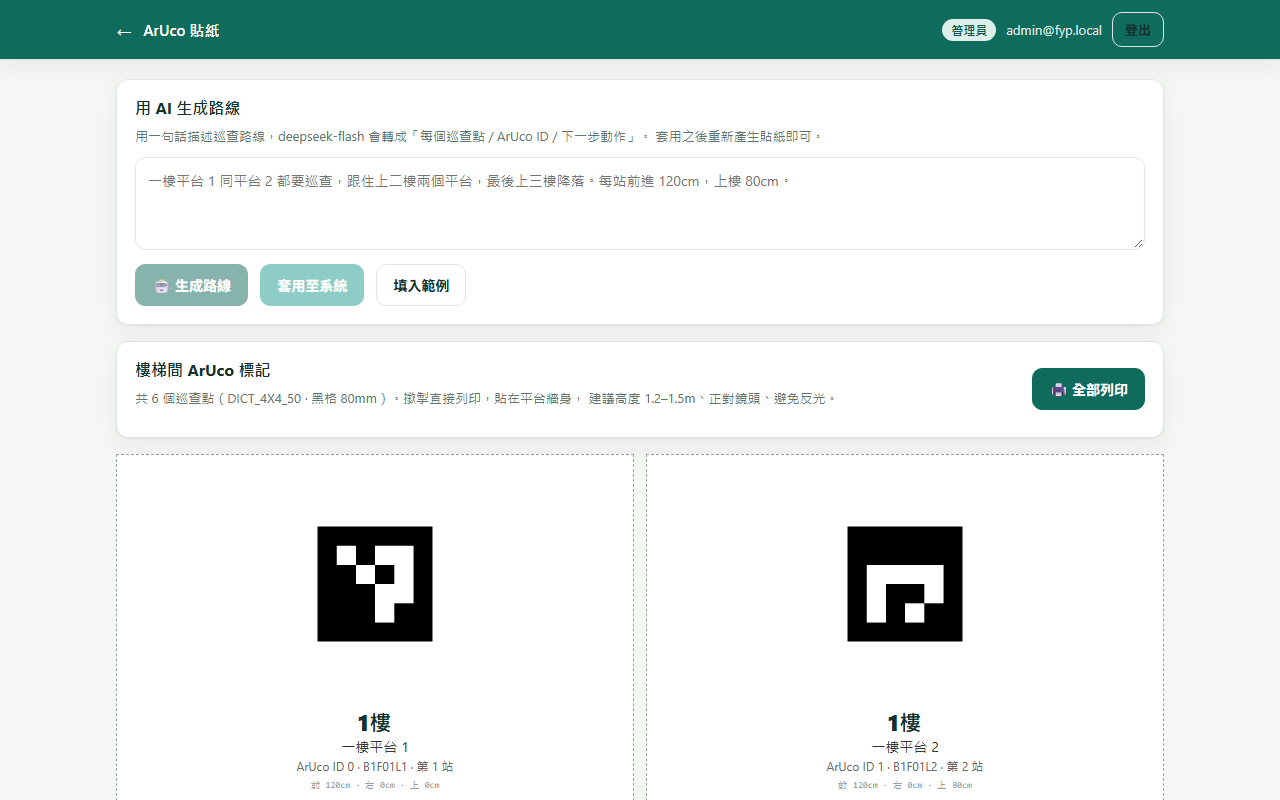
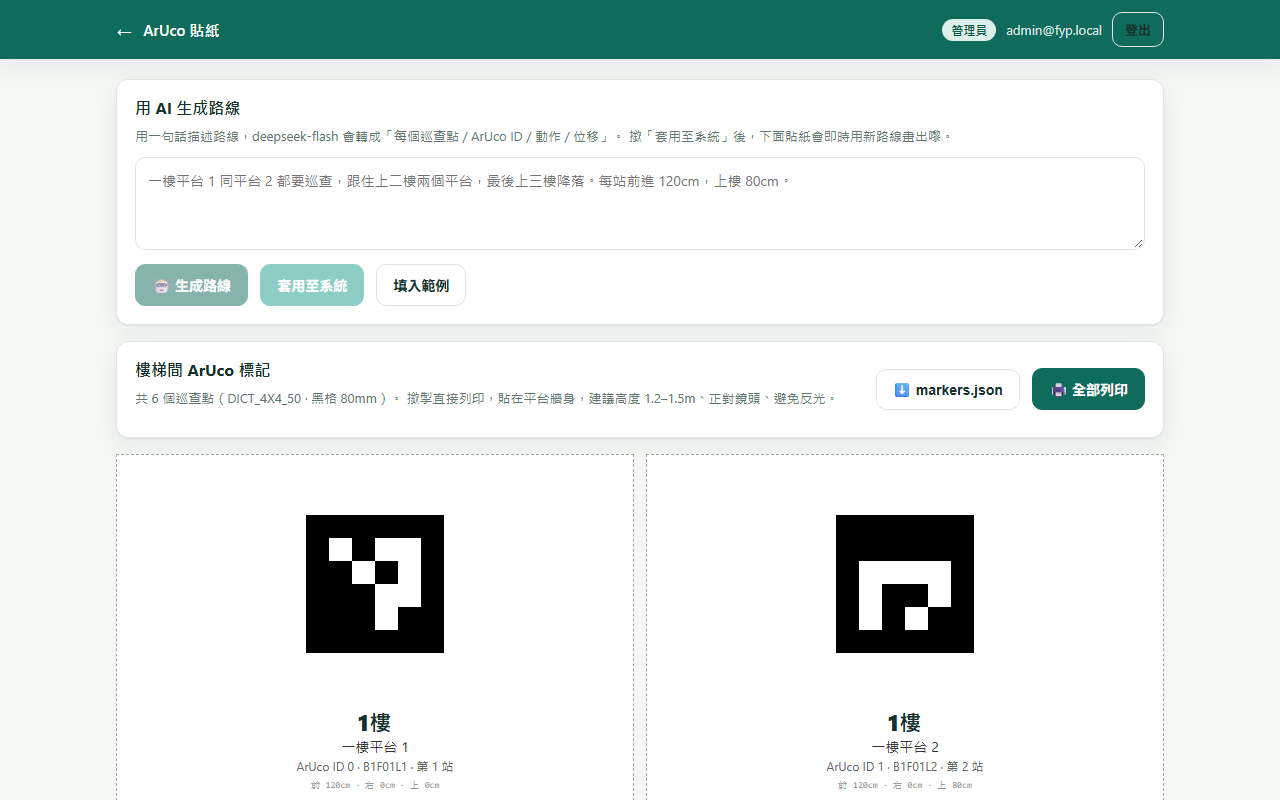
Render ArUco stickers in the browser from Firestore zones (no service account)
- export_dict.py: OpenCV DICT_4X4_50 bitmaps -> public/markers/dict-4x4-50.json
- /admin/markers now subscribes to Firestore zones and draws markers as SVG,
  so AI route changes update stickers immediately
- download markers.json button syncs markerId/zone/move to the drone tool
- verified: 6 SVG markers re-detected by OpenCV as IDs 0-5
- gen_markers.py kept for PNG/PDF printing and --from-firestore

diff --git a/src/pages/Markers.jsx b/src/pages/Markers.jsx
@@ -1,25 +1,75 @@
-import { useEffect, useState } from 'react';
+import { useEffect, useMemo, useState } from 'react';
+import { collection, onSnapshot, orderBy, query } from 'firebase/firestore';
 import { getFunctions, httpsCallable } from 'firebase/functions';
 import AppBar from '../components/AppBar';
-import { app } from '../firebase';
+import { app, db } from '../firebase';
 
 /**
  * ArUco 貼紙頁 + DeepSeek 路線生成。
  *
- * 流程：
- *   1. 管理員用自然語言描述路線（例：「一樓兩個平台，然後上二樓，最後三樓降落」）
- *   2. Cloud Function 呼叫 deepseek-flash，回傳嚴格 JSON（zone / markerId / action / move）
- *   3. 「套用」→ 寫入 Firestore `zones`
- *   4. 落本機執行 `python tools/drone/gen_markers.py --from-firestore` 重新產生貼紙
+ * 貼紙由網頁即時畫（SVG），位元圖來自 `public/markers/dict-4x4-50.json`
+ * （由 OpenCV 匯出，所以同無人機偵測的字典完全一致）。
+ * 好處：AI 生成路線 → 套用 → 貼紙即刻更新，唔需要 service account、唔需要跑 Python。
  *
- * 為何唔由瀏覽器直接 call DeepSeek：API key 會 expose；而且 DeepSeek 唔支援 browser CORS。
- * Key 只存在 Google Secret Manager，由 Cloud Function 代呼叫。
+ * 無人機需要的 `markers.json`（markerId → zone + move）可以一鍵下載。
  */
 const EXAMPLE = '一樓平台 1 同平台 2 都要巡查，跟住上二樓兩個平台，最後上三樓降落。每站前進 120cm，上樓 80cm。';
+const QUIET_ZONE = 2;
+const MARKER_SIZE_M = 0.08;
+
+function useDict() {
+  const [dict, setDict] = useState(null);
+  useEffect(() => {
+    fetch('/markers/dict-4x4-50.json')
+      .then((res) => res.json())
+      .then(setDict)
+      .catch(() => setDict(null));
+  }, []);
+  return dict;
+}
+
+function MarkerSvg({ dict, markerId, label }) {
+  const code = dict?.codes?.[markerId];
+  if (!code) return <div className="qr-placeholder" />;
+
+  const modules = dict.modules; // 6
+  const total = modules + QUIET_ZONE * 2; // 10
+  const cells = [];
+  for (let row = 0; row < modules; row += 1) {
+    for (let col = 0; col < modules; col += 1) {
+      if (code[row * modules + col] === '1') {
+        cells.push(
+          <rect
+            key={`${row}-${col}`}
+            x={col + QUIET_ZONE}
+            y={row + QUIET_ZONE}
+            width={1}
+            height={1}
+            fill="#000"
+          />,
+        );
+      }
+    }
+  }
+
+  return (
+    <svg
+      className="aruco-svg"
+      viewBox={`0 0 ${total} ${total}`}
+      role="img"
+      aria-label={`${label} ArUco ID ${markerId}`}
+      shapeRendering="crispEdges"
+    >
+      <rect width={total} height={total} fill="#fff" />
+      {cells}
+    </svg>
+  );
+}
 
 export default function Markers() {
-  const [data, setData] = useState(null);
-  const [error, setError] = useState('');
+  const dict = useDict();
+  const [zones, setZones] = useState([]);
+  const [zonesError, setZonesError] = useState('');
 
   const [prompt, setPrompt] = useState('');
   const [generating, setGenerating] = useState(false);
@@ -28,17 +78,20 @@ export default function Markers() {
   const [aiError, setAiError] = useState('');
   const [notice, setNotice] = useState('');
 
+  // 直接監聽 Firestore zones：AI 套用後貼紙即刻更新
   useEffect(() => {
-    fetch('/markers/markers.json')
-      .then((res) => {
-        if (!res.ok) throw new Error('HTTP ' + res.status);
-        return res.json();
-      })
-      .then(setData)
-      .catch((err) => setError('讀取 marker 資料失敗：' + err.message));
+    const q = query(collection(db, 'zones'), orderBy('seq', 'asc'));
+    return onSnapshot(
+      q,
+      (snap) => {
+        setZones(snap.docs.map((d) => ({ zoneId: d.id, ...d.data() })));
+        setZonesError('');
+      },
+      (err) => setZonesError('讀取巡查點失敗：' + err.message),
+    );
   }, []);
 
-  const zones = data?.zones ?? [];
+  const sorted = useMemo(() => [...zones].sort((a, b) => (a.seq ?? 0) - (b.seq ?? 0)), [zones]);
 
   async function generate(apply = false) {
     setAiError('');
@@ -49,11 +102,7 @@ export default function Markers() {
       const call = httpsCallable(functions, 'generateRoute', { timeout: 120000 });
       const result = await call({ prompt: prompt.trim(), apply });
       setRoute(result.data);
-      if (apply) {
-        setNotice(
-          `已套用 ${result.data.steps.length} 個巡查點。落本機執行：python tools/drone/gen_markers.py --from-firestore`,
-        );
-      }
+      if (apply) setNotice(`已套用 ${result.data.steps.length} 個巡查點，下面貼紙已即時更新。`);
     } catch (err) {
       console.error(err);
       setAiError(err.message || 'AI 生成失敗');
@@ -61,6 +110,31 @@ export default function Markers() {
       setGenerating(false);
       setApplying(false);
     }
+  }
+
+  function downloadMarkersJson() {
+    const payload = {
+      dictionary: 'DICT_4X4_50',
+      markerSizeM: MARKER_SIZE_M,
+      quietZoneModules: QUIET_ZONE,
+      zones: sorted.map((z) => ({
+        zoneId: z.zoneId,
+        markerId: z.markerId,
+        seq: z.seq,
+        floor: z.floor,
+        label: z.label,
+        action: z.action,
+        nextZone: z.nextZone ?? '',
+        move: z.move ?? { forward: 0, right: 0, up: 0 },
+      })),
+    };
+    const blob = new Blob([JSON.stringify(payload, null, 2)], { type: 'application/json' });
+    const url = URL.createObjectURL(blob);
+    const link = document.createElement('a');
+    link.href = url;
+    link.download = 'markers.json';
+    link.click();
+    URL.revokeObjectURL(url);
   }
 
   return (
@@ -73,8 +147,8 @@ export default function Markers() {
         <div className="card no-print">
           <h3>用 AI 生成路線</h3>
           <p className="muted small">
-            用一句話描述巡查路線，deepseek-flash 會轉成「每個巡查點 / ArUco ID / 下一步動作」。
-            套用之後重新產生貼紙即可。
+            用一句話描述路線，deepseek-flash 會轉成「每個巡查點 / ArUco ID / 動作 / 位移」。
+            撳「套用至系統」後，下面貼紙會即時用新路線畫出嚟。
           </p>
           <textarea
             className="ai-input"
@@ -158,23 +232,27 @@ export default function Markers() {
             <div>
               <h3>樓梯間 ArUco 標記</h3>
               <p className="muted small">
-                共 {zones.length} 個巡查點（{data?.dictionary ?? 'DICT_4X4_50'} · 黑格{' '}
-                {data ? Math.round(data.markerSizeM * 1000) : 80}mm）。撳掣直接列印，貼在平台牆身，
-                建議高度 1.2–1.5m、正對鏡頭、避免反光。
+                共 {sorted.length} 個巡查點（DICT_4X4_50 · 黑格 {MARKER_SIZE_M * 1000}mm）。
+                撳掣直接列印，貼在平台牆身，建議高度 1.2–1.5m、正對鏡頭、避免反光。
               </p>
             </div>
-            <button type="button" className="btn btn-primary" onClick={() => window.print()} disabled={!zones.length}>
-              🖨 全部列印
-            </button>
+            <div className="row gap wrap">
+              <button type="button" className="btn btn-ghost" onClick={downloadMarkersJson} disabled={!sorted.length}>
+                ⬇ markers.json
+              </button>
+              <button type="button" className="btn btn-primary" onClick={() => window.print()} disabled={!sorted.length}>
+                🖨 全部列印
+              </button>
+            </div>
           </div>
-          {error ? <p className="alert alert-error">{error}</p> : null}
-          {!zones.length && !error ? <p className="muted">載入中…</p> : null}
+          {zonesError ? <p className="alert alert-error">{zonesError}</p> : null}
+          {!sorted.length && !zonesError ? <p className="muted">載入中…</p> : null}
         </div>
 
         <div className="qr-sheet">
-          {zones.map((z) => (
+          {sorted.map((z) => (
             <div key={z.zoneId} className="qr-cell">
-              <img src={`/markers/${z.zoneId}.png`} alt={`${z.floor} ${z.label} ArUco`} />
+              <MarkerSvg dict={dict} markerId={z.markerId} label={z.label || z.zoneId} />
               <div className="qr-floor">{z.floor}</div>
               <div className="qr-label">{z.label}</div>
               <div className="qr-id">
@@ -190,8 +268,8 @@ export default function Markers() {
         </div>
 
         <p className="muted small no-print">
-          改路線之後重新產生：`python tools/drone/gen_markers.py --from-firestore`。貼紙尺寸必須同
-          markers.json 的 <code>markerSizeM</code> 一致，否則距離估錯。
+          把下載到的 <code>markers.json</code> 放入 <code>tools/drone/</code>，無人機就會用同一份路線。
+          貼紙尺寸必須同 <code>markerSizeM</code>（{MARKER_SIZE_M}m）一致，否則距離估錯。
         </p>
       </main>
     </>

diff --git a/src/styles.css b/src/styles.css
@@ -237,3 +237,10 @@ code { background: #eef3f1; padding: 1px 5px; border-radius: 5px; font-size: 0.9
   background: #fff;
 }
 .ai-input:focus { outline: 2px solid rgba(15, 107, 92, 0.35); border-color: var(--primary); }
+
+/* ArUco SVG */
+.aruco-svg { width: 100%; max-width: 230px; height: auto; display: block; margin: 0 auto; background: #fff; }
+
+@media print {
+  .aruco-svg { width: 120mm; max-width: none; height: 120mm; }
+}

diff --git a/tools/drone/export_dict.py b/tools/drone/export_dict.py
@@ -1,0 +1,56 @@
+"""匯出 ArUco DICT_4X4_50 位元圖，供網頁用 SVG 即時畫 marker。
+
+為何要匯出：網頁（JS）冇 OpenCV，但只要有位元圖就可以用 SVG 畫出同一個 marker。
+呢個 JSON 由 OpenCV 產生，所以同無人機偵測用的字典 100% 一致。
+
+輸出：public/markers/dict-4x4-50.json
+  { "dictionary": "DICT_4X4_50", "modules": 6, "codes": ["010110...", ...] }
+  每個 code 係 6x6（1 模組黑框 + 4x4 資料）的位元字串，'1' = 黑。
+"""
+
+import json
+import sys
+from pathlib import Path
+
+import cv2
+
+if hasattr(sys.stdout, "reconfigure"):
+    sys.stdout.reconfigure(encoding="utf-8")
+
+ROOT = Path(__file__).resolve().parents[2]
+OUT = ROOT / "public" / "markers" / "dict-4x4-50.json"
+
+MODULES = 6
+PX_PER_MODULE = 20
+SIDE_PX = MODULES * PX_PER_MODULE
+
+
+def main() -> int:
+    dictionary = cv2.aruco.getPredefinedDictionary(cv2.aruco.DICT_4X4_50)
+    codes = []
+
+    for marker_id in range(50):
+        img = cv2.aruco.generateImageMarker(dictionary, marker_id, SIDE_PX)
+        bits = []
+        for row in range(MODULES):
+            for col in range(MODULES):
+                # 取模組中心的像素，避免邊界抗鋸齒
+                y = row * PX_PER_MODULE + PX_PER_MODULE // 2
+                x = col * PX_PER_MODULE + PX_PER_MODULE // 2
+                bits.append("1" if img[y, x] < 128 else "0")
+        codes.append("".join(bits))
+
+    OUT.parent.mkdir(parents=True, exist_ok=True)
+    OUT.write_text(
+        json.dumps({"dictionary": "DICT_4X4_50", "modules": MODULES, "codes": codes}, indent=0),
+        encoding="utf-8",
+    )
+
+    print(f"匯出 {len(codes)} 個 marker → {OUT.relative_to(ROOT)}")
+    print("id 0:", codes[0])
+    print("id 1:", codes[1])
+    return 0
+
+
+if __name__ == "__main__":
+    raise SystemExit(main())
